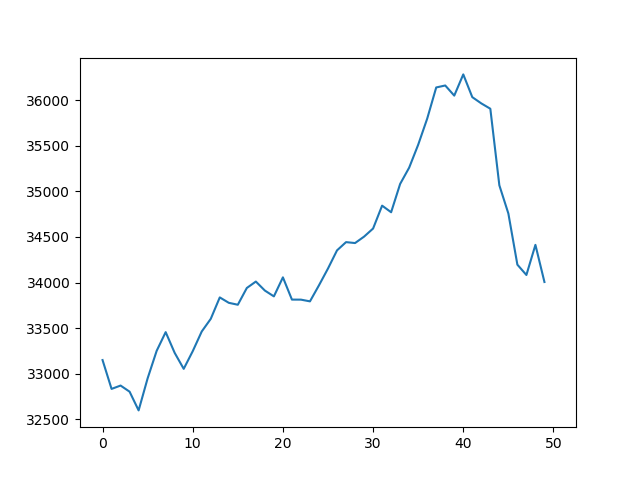
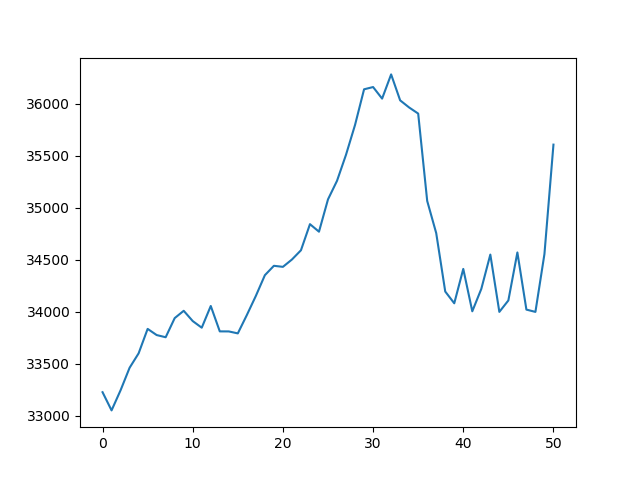
Fixed relative path to images.

diff --git a/lstm/views.py b/lstm/views.py
@@ -5,6 +5,7 @@ from .forms import *
 from .lstm_new import *
 import datetime
 import matplotlib.pyplot as plt
+import os
 
 # Create your views here.
 def update(request):
@@ -18,10 +19,10 @@ def update(request):
 			predicted, fifty_day = predict_for_view(index_values)
 			fig = plt.figure(facecolor='white')
 			ax = fig.add_subplot(111)
-			ax.plot(fifty_day, label="data so far")
-			padding = [None for i in range(len(fifty_day))]
-			plt.plot(padding + [predicted], label="predicted data")
-			plt.savefig('C:\\Users\\naman\\Desktop\\lstm_daily\\lstm_daily\\lstm\\static\\lstm\\plot.png')
+			fifty_day.append(predicted)
+			ax.plot(fifty_day, label="data")
+			BASE_DIR = os.path.dirname(os.path.dirname(os.path.abspath(__file__)))
+			plt.savefig(os.path.join(BASE_DIR,'lstm\\static\\lstm\\plot.png'))  # 'C:\\Users\\naman\\Desktop\\lstm_daily\\lstm_daily\\lstm\\static\\lstm\\plot.png')
 			return HttpResponseRedirect('/predictions/')
 	else:
 		Update = UpdateForm()

diff --git a/lstm/models.py b/lstm/models.py
@@ -13,15 +13,3 @@ class index_value(models.Model):
 
 	def __str__(self):
 		return str(self.value)
-
-class prediction_value(models.Model):
-	value = models.FloatField()
-	date = models.DateField()
-
-	def publish(self, value, date):
-		self.value = value
-		self.date = date
-		self.save()
-
-	def __str__(self):
-		return str(self.value)

diff --git a/lstm/migrations/0002_delete_prediction_value.py b/lstm/migrations/0002_delete_prediction_value.py
@@ -1,0 +1,16 @@
+# Generated by Django 2.0.2 on 2018-02-11 13:17
+
+from django.db import migrations
+
+
+class Migration(migrations.Migration):
+
+    dependencies = [
+        ('lstm', '0001_initial'),
+    ]
+
+    operations = [
+        migrations.DeleteModel(
+            name='prediction_value',
+        ),
+    ]

diff --git a/lstm/admin.py b/lstm/admin.py
@@ -9,6 +9,5 @@ class IndexValueAdmin(admin.ModelAdmin):
 
 # Register your models here.
 admin.site.register(index_value, IndexValueAdmin)
-admin.site.register(prediction_value, IndexValueAdmin)
 
 
